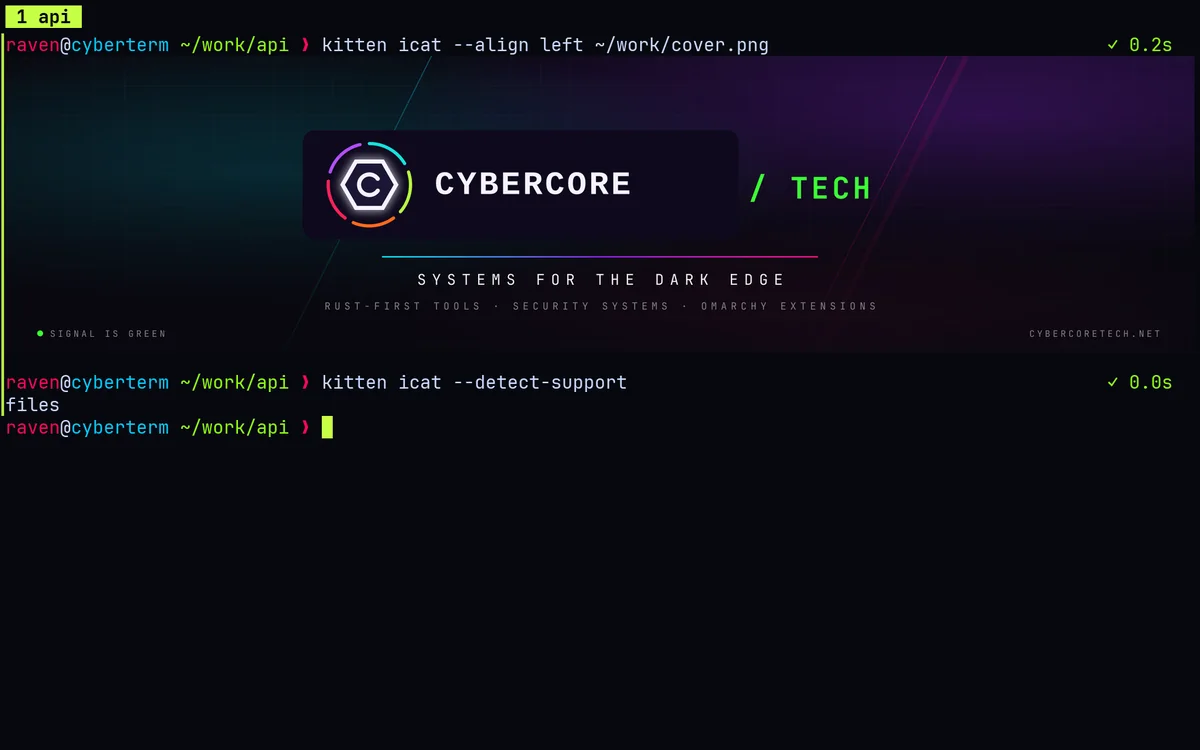
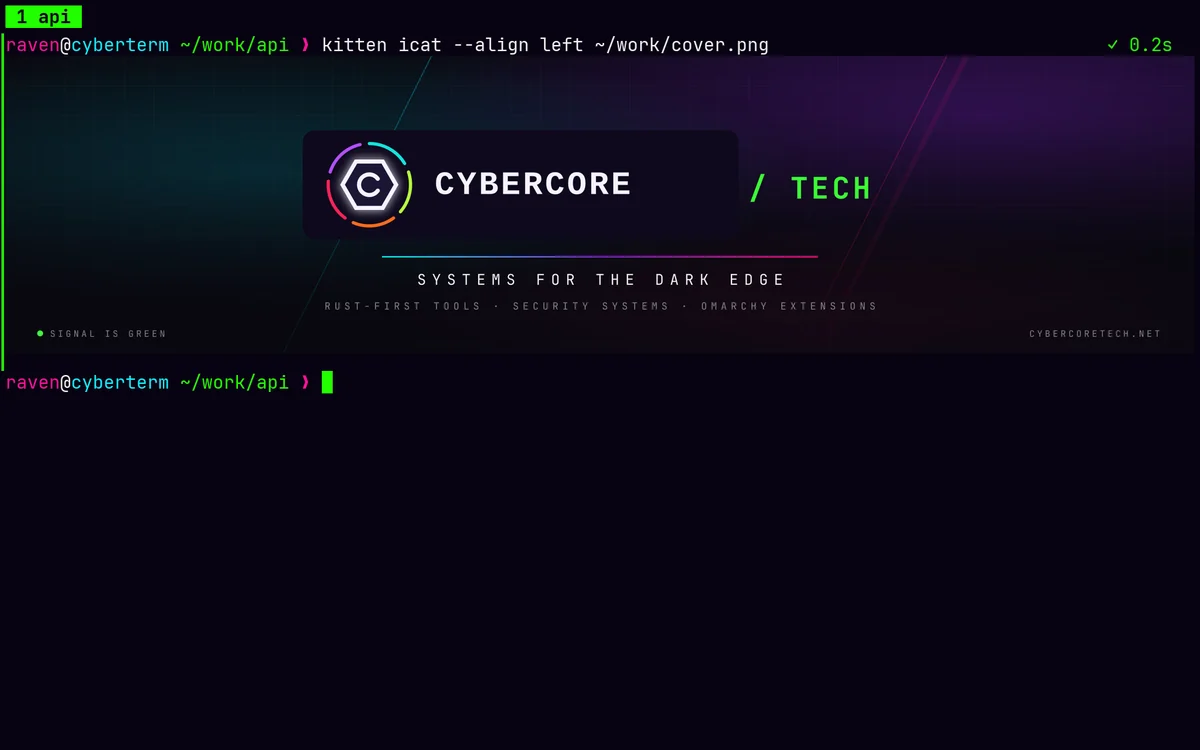
feat(site): screenshots retaken for 0.2.1, real theme picker shot
All ten screenshots retaken from 0.2.1: text now shows in its true
colors (the old ones predate the text color fix and are darker). Adds a
real screenshot of the new theme picker to the themes section and bumps
the version mentions to v0.2.1.

diff --git a/index.html b/index.html
@@ -56,7 +56,7 @@
 <body>
   <header><div class="wrap nav"><a class="brand" href="#top" aria-label="Cyberterm home"><img src="assets/brand/cyberterm-favicon.svg" alt=""><b>CYBER<span>TERM</span></b></a><nav aria-label="Primary navigation"><a href="#workspace">Workspace</a><a href="#blocks">Blocks</a><a href="#ai">AI</a><a href="#power">Power</a><a href="#install">Install</a><div class="theme-picker"><button id="themeButton" class="theme-button" type="button" aria-haspopup="listbox" aria-expanded="false" aria-controls="themeMenu" title="Site theme, from the shared Cybercore registry">CYBERTERM CLASSIC</button><div id="themeMenu" class="theme-menu" role="listbox" aria-label="Site theme" hidden></div></div><a class="nav-github" href="https://github.com/cybercore-tech/cyberterm">GitHub ↗</a></nav></div></header>
   <main id="top">
-    <section class="hero"><div class="wrap hero-grid"><div><p class="eyebrow">GPU TERMINAL // v0.2.0 SHIPPED</p><h1>A terminal that works <span>with you.</span></h1><p class="hero-copy">Cyberterm is a native Rust terminal for developers. Splits, tabs and sessions that survive the window are built in. Every command becomes a block you can rerun, diff or search later. And when something breaks, it can explain why — with your consent, with any AI you like.</p><div class="hero-actions"><a class="button" href="#install">Install Cyberterm <span>↓</span></a><a class="button secondary" href="#workspace">See what it does <span>↘</span></a></div><div class="release"><span>v0.2.0</span><span>·</span><span>crates.io · Linux · macOS</span><span>·</span><span>MIT</span></div></div>
+    <section class="hero"><div class="wrap hero-grid"><div><p class="eyebrow">GPU TERMINAL // v0.2.1 SHIPPED</p><h1>A terminal that works <span>with you.</span></h1><p class="hero-copy">Cyberterm is a native Rust terminal for developers. Splits, tabs and sessions that survive the window are built in. Every command becomes a block you can rerun, diff or search later. And when something breaks, it can explain why — with your consent, with any AI you like.</p><div class="hero-actions"><a class="button" href="#install">Install Cyberterm <span>↓</span></a><a class="button secondary" href="#workspace">See what it does <span>↘</span></a></div><div class="release"><span>v0.2.1</span><span>·</span><span>crates.io · Linux · macOS</span><span>·</span><span>MIT</span></div></div>
       <div class="terminal-shell" aria-label="Cyberterm terminal preview"><div class="terminal-top"><div class="dots"><i class="dot"></i><i class="dot"></i><i class="dot"></i></div><div class="terminal-title">cyberterm — api — 2 panes</div><div class="live">PTY LIVE</div></div><div class="tabs"><div class="tab active">1 api</div><div class="tab">2 web</div><div class="tab">3 logs</div></div><div class="terminal-body">
 <div class="line blk"><span class="prompt">raven@box</span>:<span class="path">~/api</span>$ npm run dev <span class="badge k-green">✓ 0 · 1.2s</span></div>
 <div class="line out blk">ready on http://localhost:3000</div>
@@ -142,13 +142,7 @@ cyberterm.<span class="k-green">bind</span>(<span class="k-amber">"ctrl+alt+g"</
 <div><span>Rewind</span><kbd>Ctrl+Shift+U</kbd></div>
 <div><span>Danger mode on/off</span><kbd>Ctrl+Shift+D</kbd></div>
 </div></div></section>
-    <section class="themes" id="themes"><div class="wrap theme-grid"><div class="theme-screen"><div class="palette"><i class="swatch" style="background:var(--void)"></i><i class="swatch" style="background:var(--pink)"></i><i class="swatch" style="background:var(--green)"></i><i class="swatch" style="background:var(--amber)"></i><i class="swatch" style="background:var(--purple)"></i><i class="swatch" style="background:var(--cyan)"></i><i class="swatch" style="background:var(--text)"></i><i class="swatch" style="background:var(--panel)"></i></div><pre><b data-active-theme>cyberterm classic</b> // this page, right now
-
-<span style="color:var(--pink)">$</span> cyberterm +themes install all
-<span style="color:var(--green)">  iterm2</span>     768 themes
-<span style="color:var(--green)">  kitty</span>      418 themes
-<span style="color:var(--green)">  cyberterm</span>  203 themes
-<span style="color:var(--amber)">[cyberterm]</span> 1,508 themes available</pre></div><div><p class="section-kicker">theme engine</p><h2>Your terminal, your frequency.</h2><p class="section-lede">129 themes come with Cyberterm, and the big collections are one command away. The picker filters as you type and previews the whole window live. Try the <b>theme menu at the top of this page</b>: it uses the same shared Cybercore palettes.</p>
+    <section class="themes" id="themes"><div class="wrap theme-grid"><div class="theme-screen"><div class="palette"><i class="swatch" style="background:var(--void)"></i><i class="swatch" style="background:var(--pink)"></i><i class="swatch" style="background:var(--green)"></i><i class="swatch" style="background:var(--amber)"></i><i class="swatch" style="background:var(--purple)"></i><i class="swatch" style="background:var(--cyan)"></i><i class="swatch" style="background:var(--text)"></i><i class="swatch" style="background:var(--panel)"></i></div><figure class="shot" style="margin-top:14px"><img src="assets/screens/themes.webp" width="1200" height="750" loading="lazy" alt="The theme picker filtered to catppuccin: 13 of 1,508 themes grouped by collection, with a live preview of Catppuccin Frappe"><figcaption><span><b>●</b> 13 of 1,508 · live preview</span><span>real screenshot</span></figcaption></figure><p class="theme-note" style="margin-top:12px">This page right now: <b data-active-theme>cyberterm classic</b></p></div><div><p class="section-kicker">theme engine</p><h2>Your terminal, your frequency.</h2><p class="section-lede">129 themes come with Cyberterm, and the big collections are one command away. The picker filters as you type and previews the whole window live. Try the <b>theme menu at the top of this page</b>: it uses the same shared Cybercore palettes.</p>
 <div class="theme-counts"><div class="theme-count on"><span>Cyberterm built-in</span><b>12</b></div><div class="theme-count on"><span>Popular (Catppuccin, Tokyo Night, Gruvbox…)</span><b>36</b></div><div class="theme-count on"><span>Cybercore catalog</span><b>81</b></div><div class="theme-count"><span>iTerm2 collection</span><b>+768</b></div><div class="theme-count"><span>Kitty collection</span><b>+418</b></div><div class="theme-count"><span>Cyberterm extras</span><b>+203</b></div></div>
 <pre class="theme-cmds"><span class="k-dim"># add more (each keeps its own license)</span>
 cyberterm +themes install iterm2
